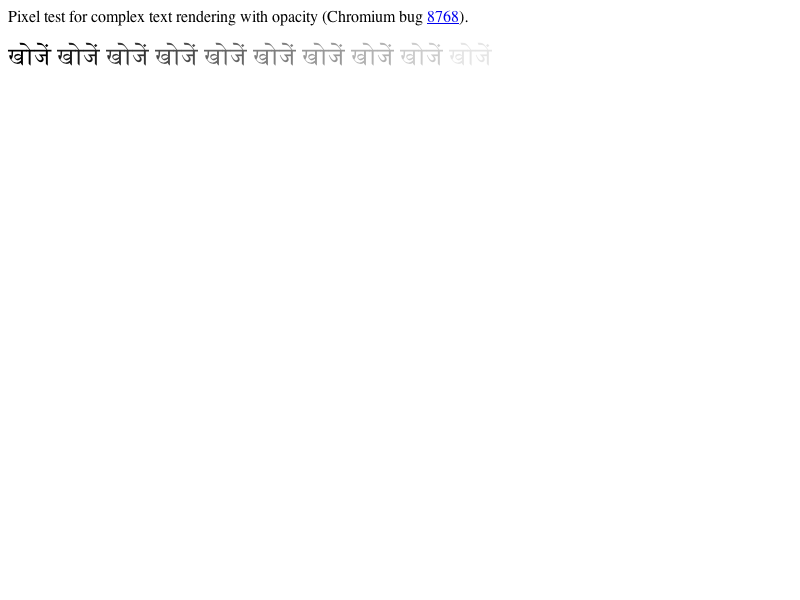
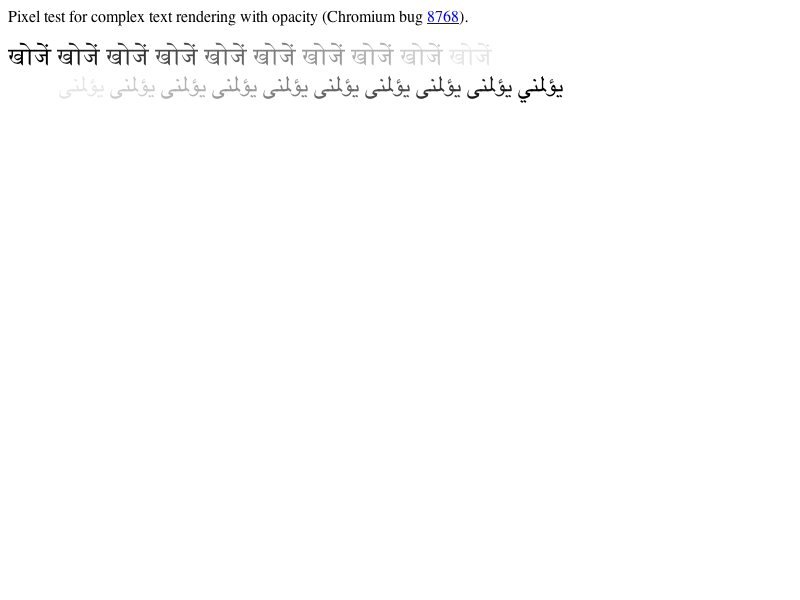
2009-04-08  Darin Fisher  <darin@chromium.org>
Reviewed by Eric Seidel.

        https://bugs.webkit.org/show_bug.cgi?id=25100

        Fixes a Chromium-specific crash in WebCore::ImageBuffer::context that
        occurs when rendering semi-transparent RTL text.

        Test: fast/text/complex-text-opacity.html

        * platform/graphics/chromium/FontChromiumWin.cpp: Handle RTL when computing text bounds.
        (WebCore::TransparencyAwareFontPainter::TransparencyAwareUniscribePainter::estimateTextBounds):

git-svn-id: https://svn.webkit.org/repository/webkit/trunk@42340 268f45cc-cd09-0410-ab3c-d52691b4dbfc

Changed region(s): [[0.1875, 0.12, 0.7188, 0.18], [0.1562, 0.12, 0.1875, 0.15], [0.125, 0.15, 0.1562, 0.18]]

diff --git a/LayoutTests/fast/text/complex-text-opacity.html b/LayoutTests/fast/text/complex-text-opacity.html
@@ -13,4 +13,17 @@ Pixel test for complex text rendering with opacity (Chromium bug <a href="http:/
 <span style="opacity:0.1;">खोजें</span>
 <span style="opacity:0.0;">खोजें</span>
 </div>
+<div style="font-size:25px;">
+<span>يؤلمني</span>
+<span style="opacity:0.9;">يؤلمني</span>
+<span style="opacity:0.8;">يؤلمني</span>
+<span style="opacity:0.7;">يؤلمني</span>
+<span style="opacity:0.6;">يؤلمني</span>
+<span style="opacity:0.5;">يؤلمني</span>
+<span style="opacity:0.4;">يؤلمني</span>
+<span style="opacity:0.3;">يؤلمني</span>
+<span style="opacity:0.2;">يؤلمني</span>
+<span style="opacity:0.1;">يؤلمني</span>
+<span style="opacity:0.0;">يؤلمني</span>
+</div>
 </body></html>

diff --git a/WebCore/platform/graphics/chromium/FontChromiumWin.cpp b/WebCore/platform/graphics/chromium/FontChromiumWin.cpp
@@ -323,6 +323,10 @@ IntRect TransparencyAwareUniscribePainter::estimateTextBounds()
     UniscribeHelperTextRun state(m_run, *m_font);
     int left = lroundf(m_point.x()) + state.characterToX(m_from);
     int right = lroundf(m_point.x()) + state.characterToX(m_to);
+    
+    // Adjust for RTL script since we just want to know the text bounds.
+    if (left > right)
+        std::swap(left, right);
 
     // This algorithm for estimating how much extra space we need (the text may
     // go outside the selection rect) is based roughly on
